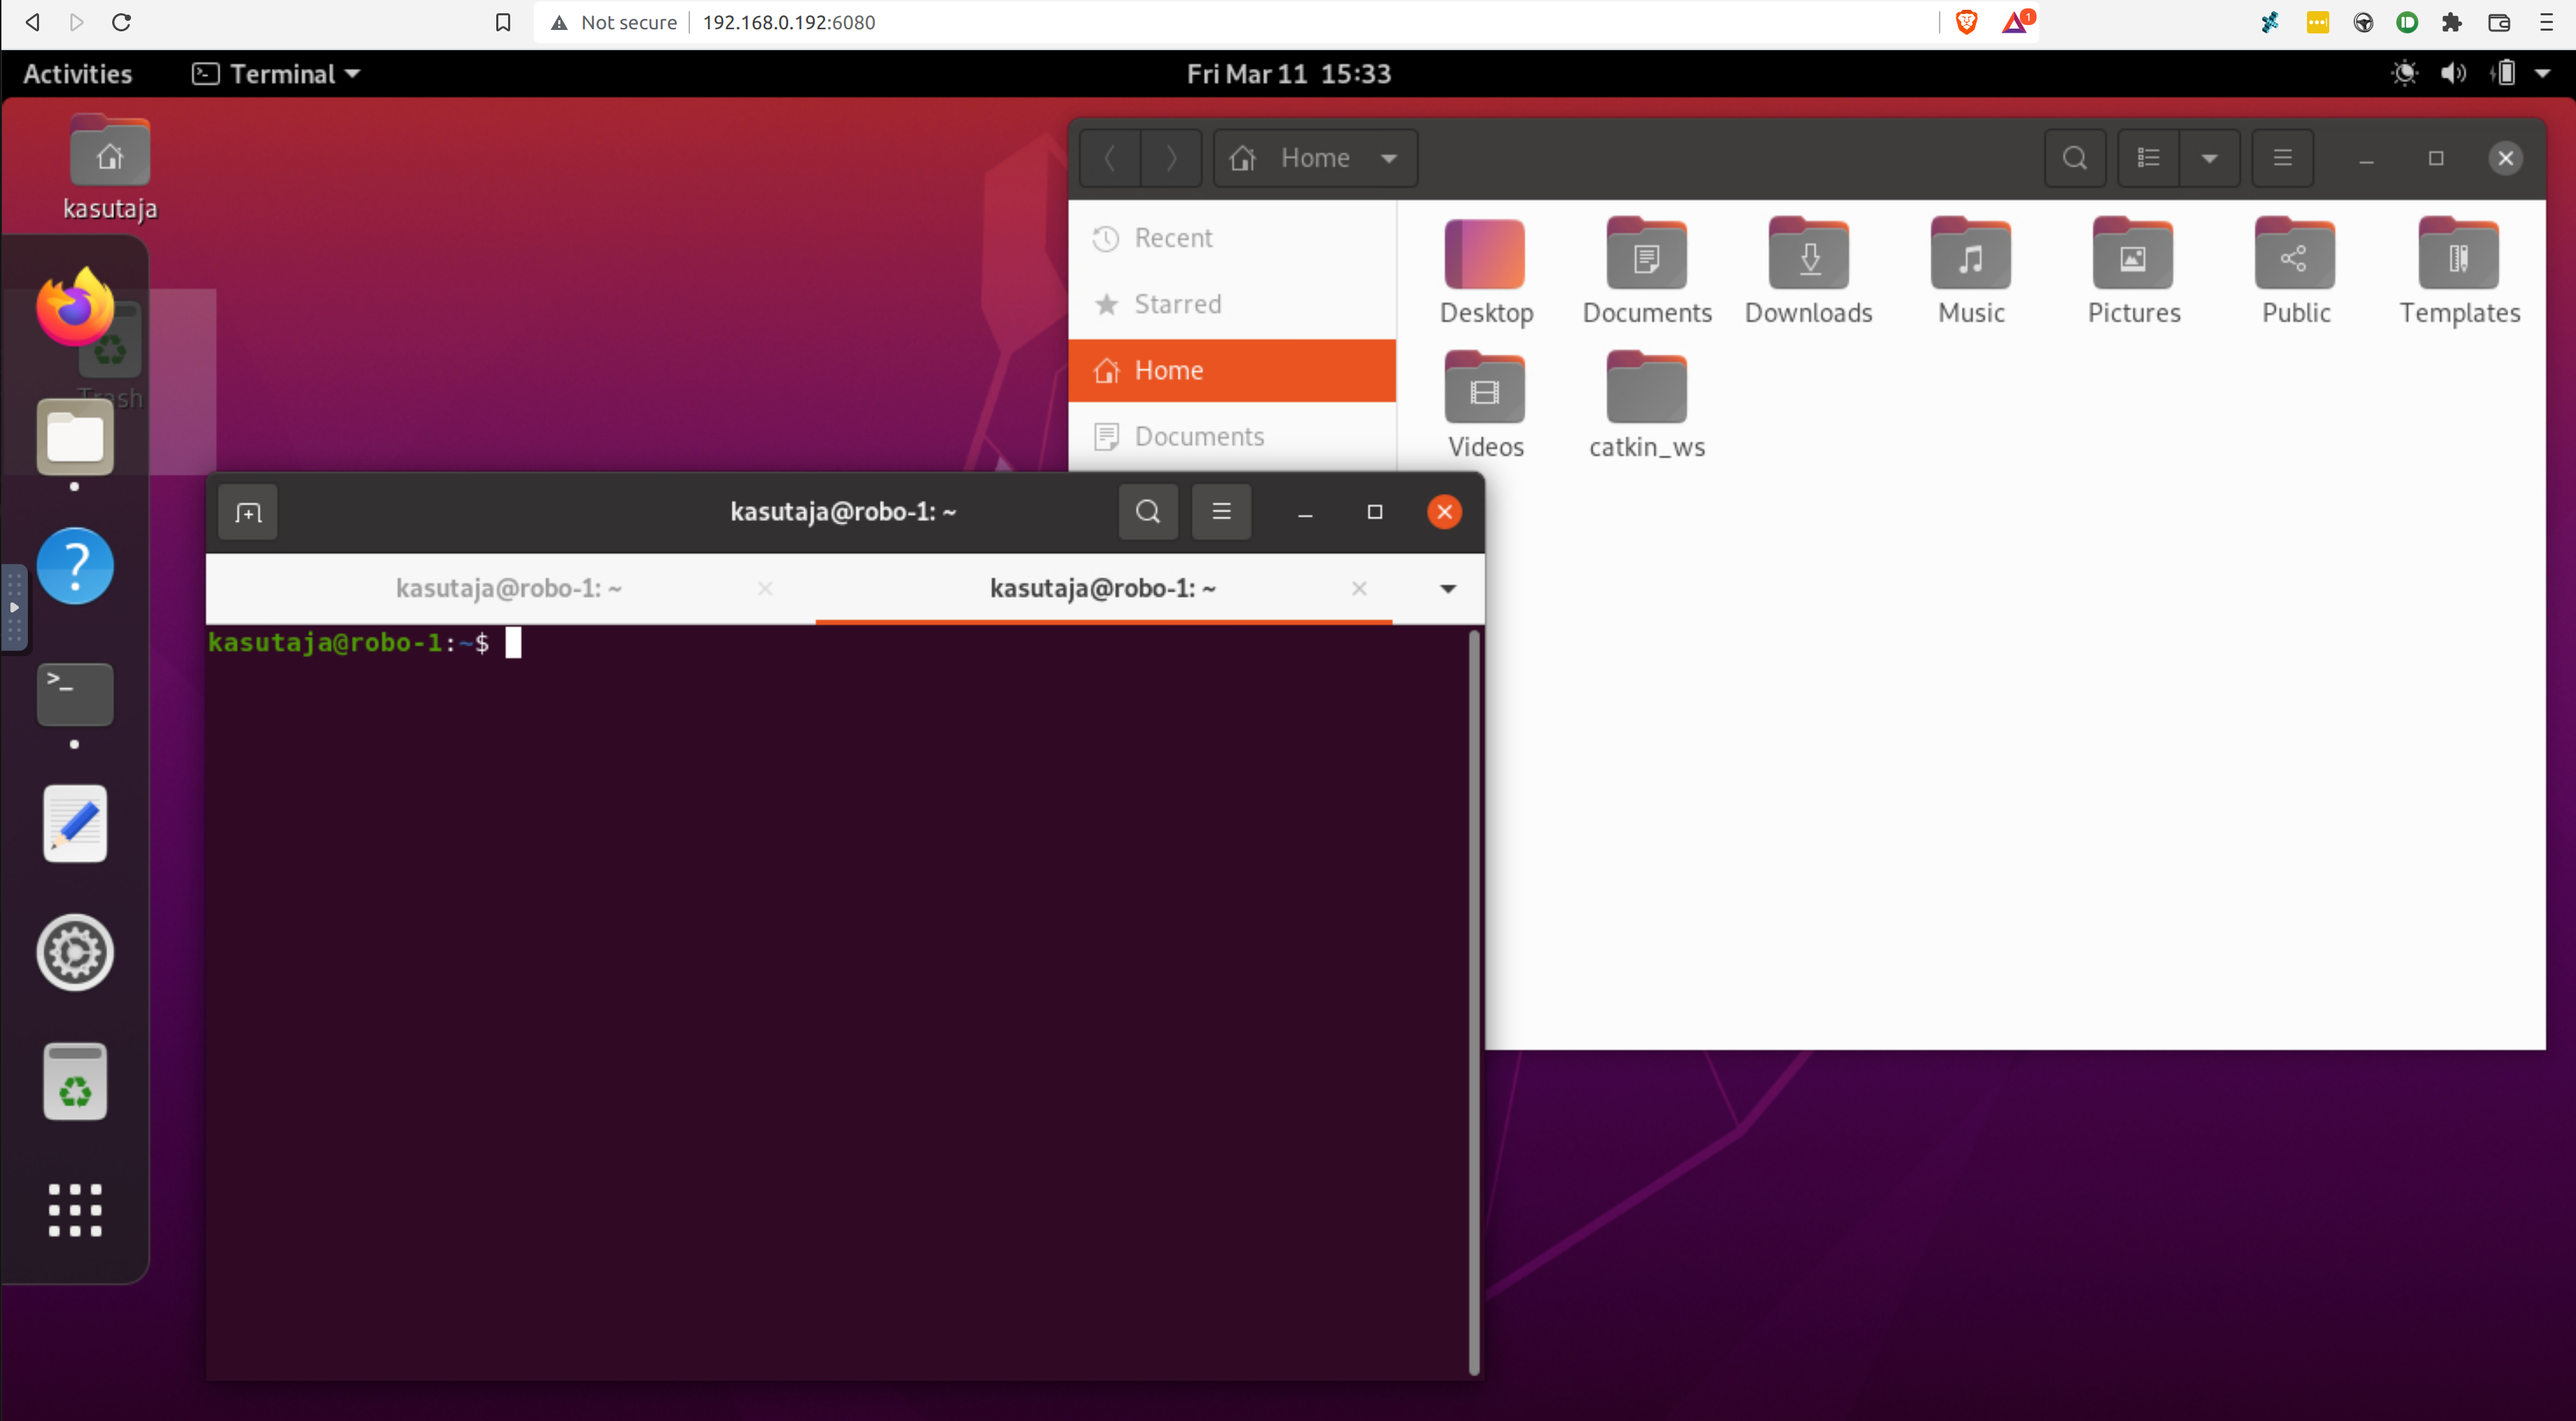
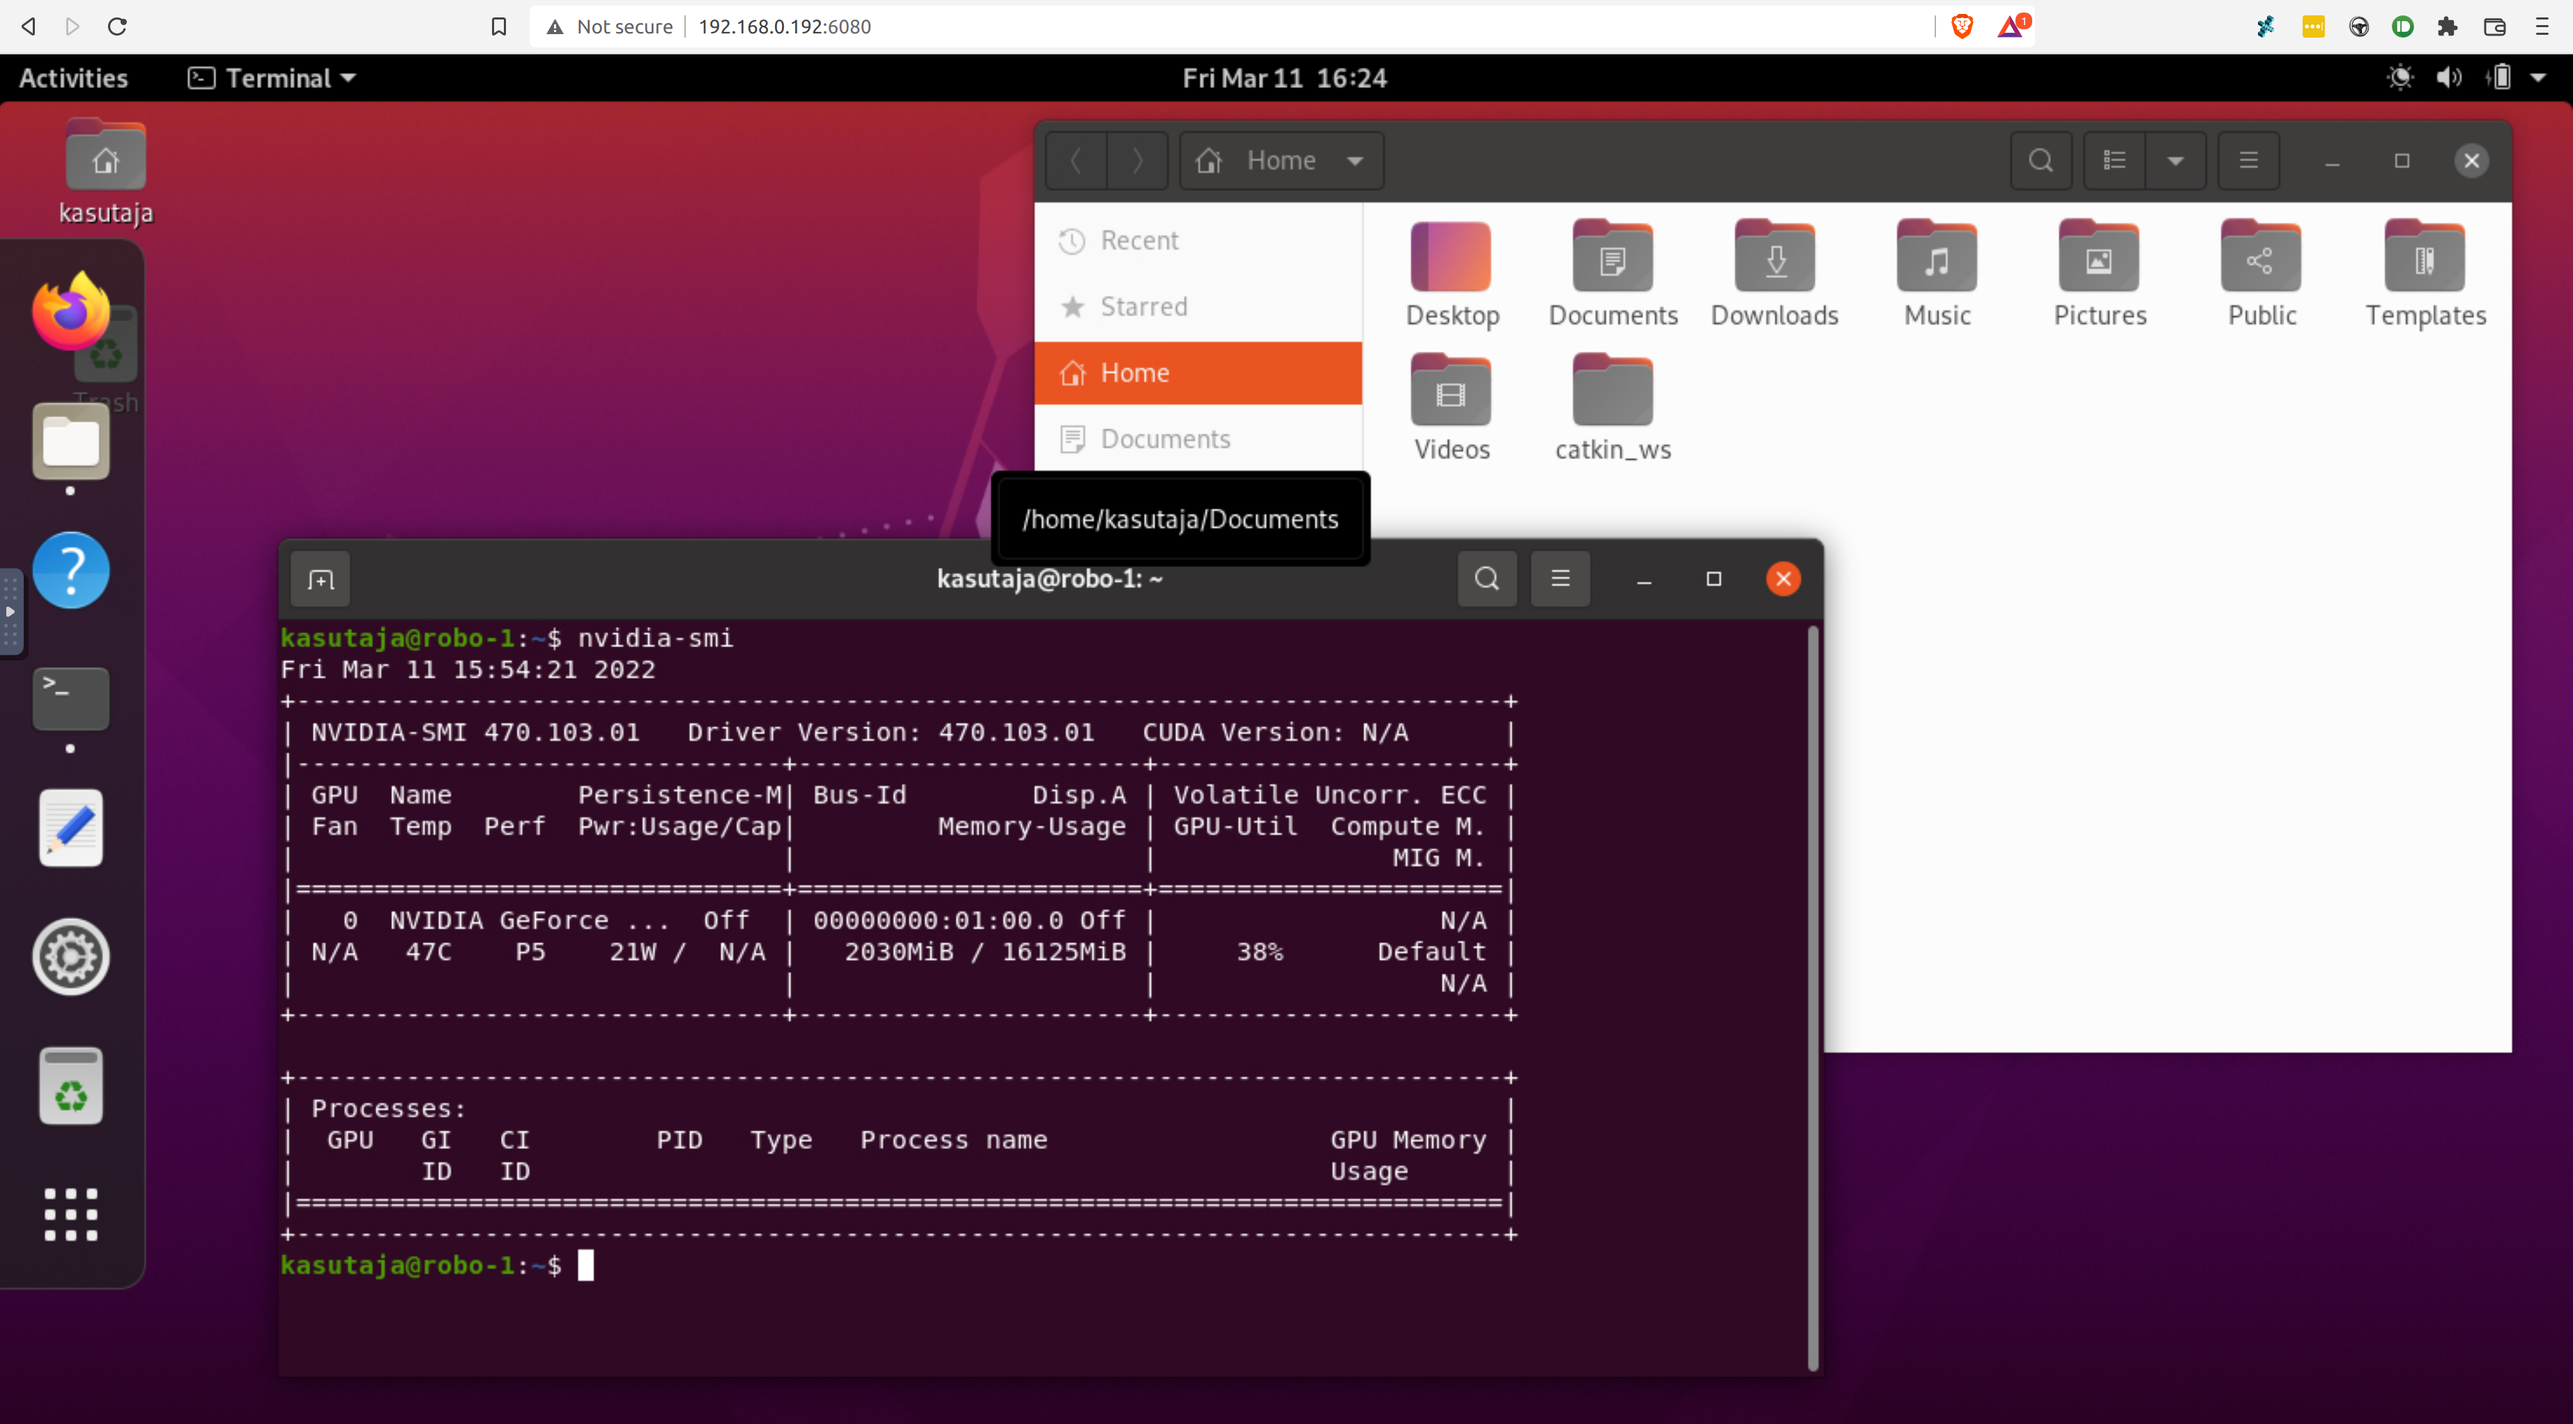
readme

diff --git a/README.md b/README.md
@@ -96,8 +96,9 @@ Copy your custom binary (found at `~/.config/dconf/user`) into `images` and rebu
 
 ### To do:
 
-- Make the image more user-friendly ✅
 - Make a server that can handle multiple websocket proxies at once ✅
+- Make the image more user-friendly ✅
+- Enable NVIDIA hardware acceleration in the containers ✅
 - Run the containers as a non-root user ✅
 
 ### Limitations & issues:
@@ -106,6 +107,6 @@ Copy your custom binary (found at `~/.config/dconf/user`) into `images` and rebu
 
 ---
 
-A very configurable docker-vnc setup providing options between lxde, lxqt and xfce4 environments (no gnome) can be found [here](https://github.com/fcwu/docker-ubuntu-vnc-desktop), but I've run into some issues trying to proxy the nginx server that is running inside it.
+A very configurable docker-vnc setup providing options between lxde, lxqt and xfce4 environments (no gnome) can be found [here](https://github.com/fcwu/docker-ubuntu-vnc-desktop).
 
 
